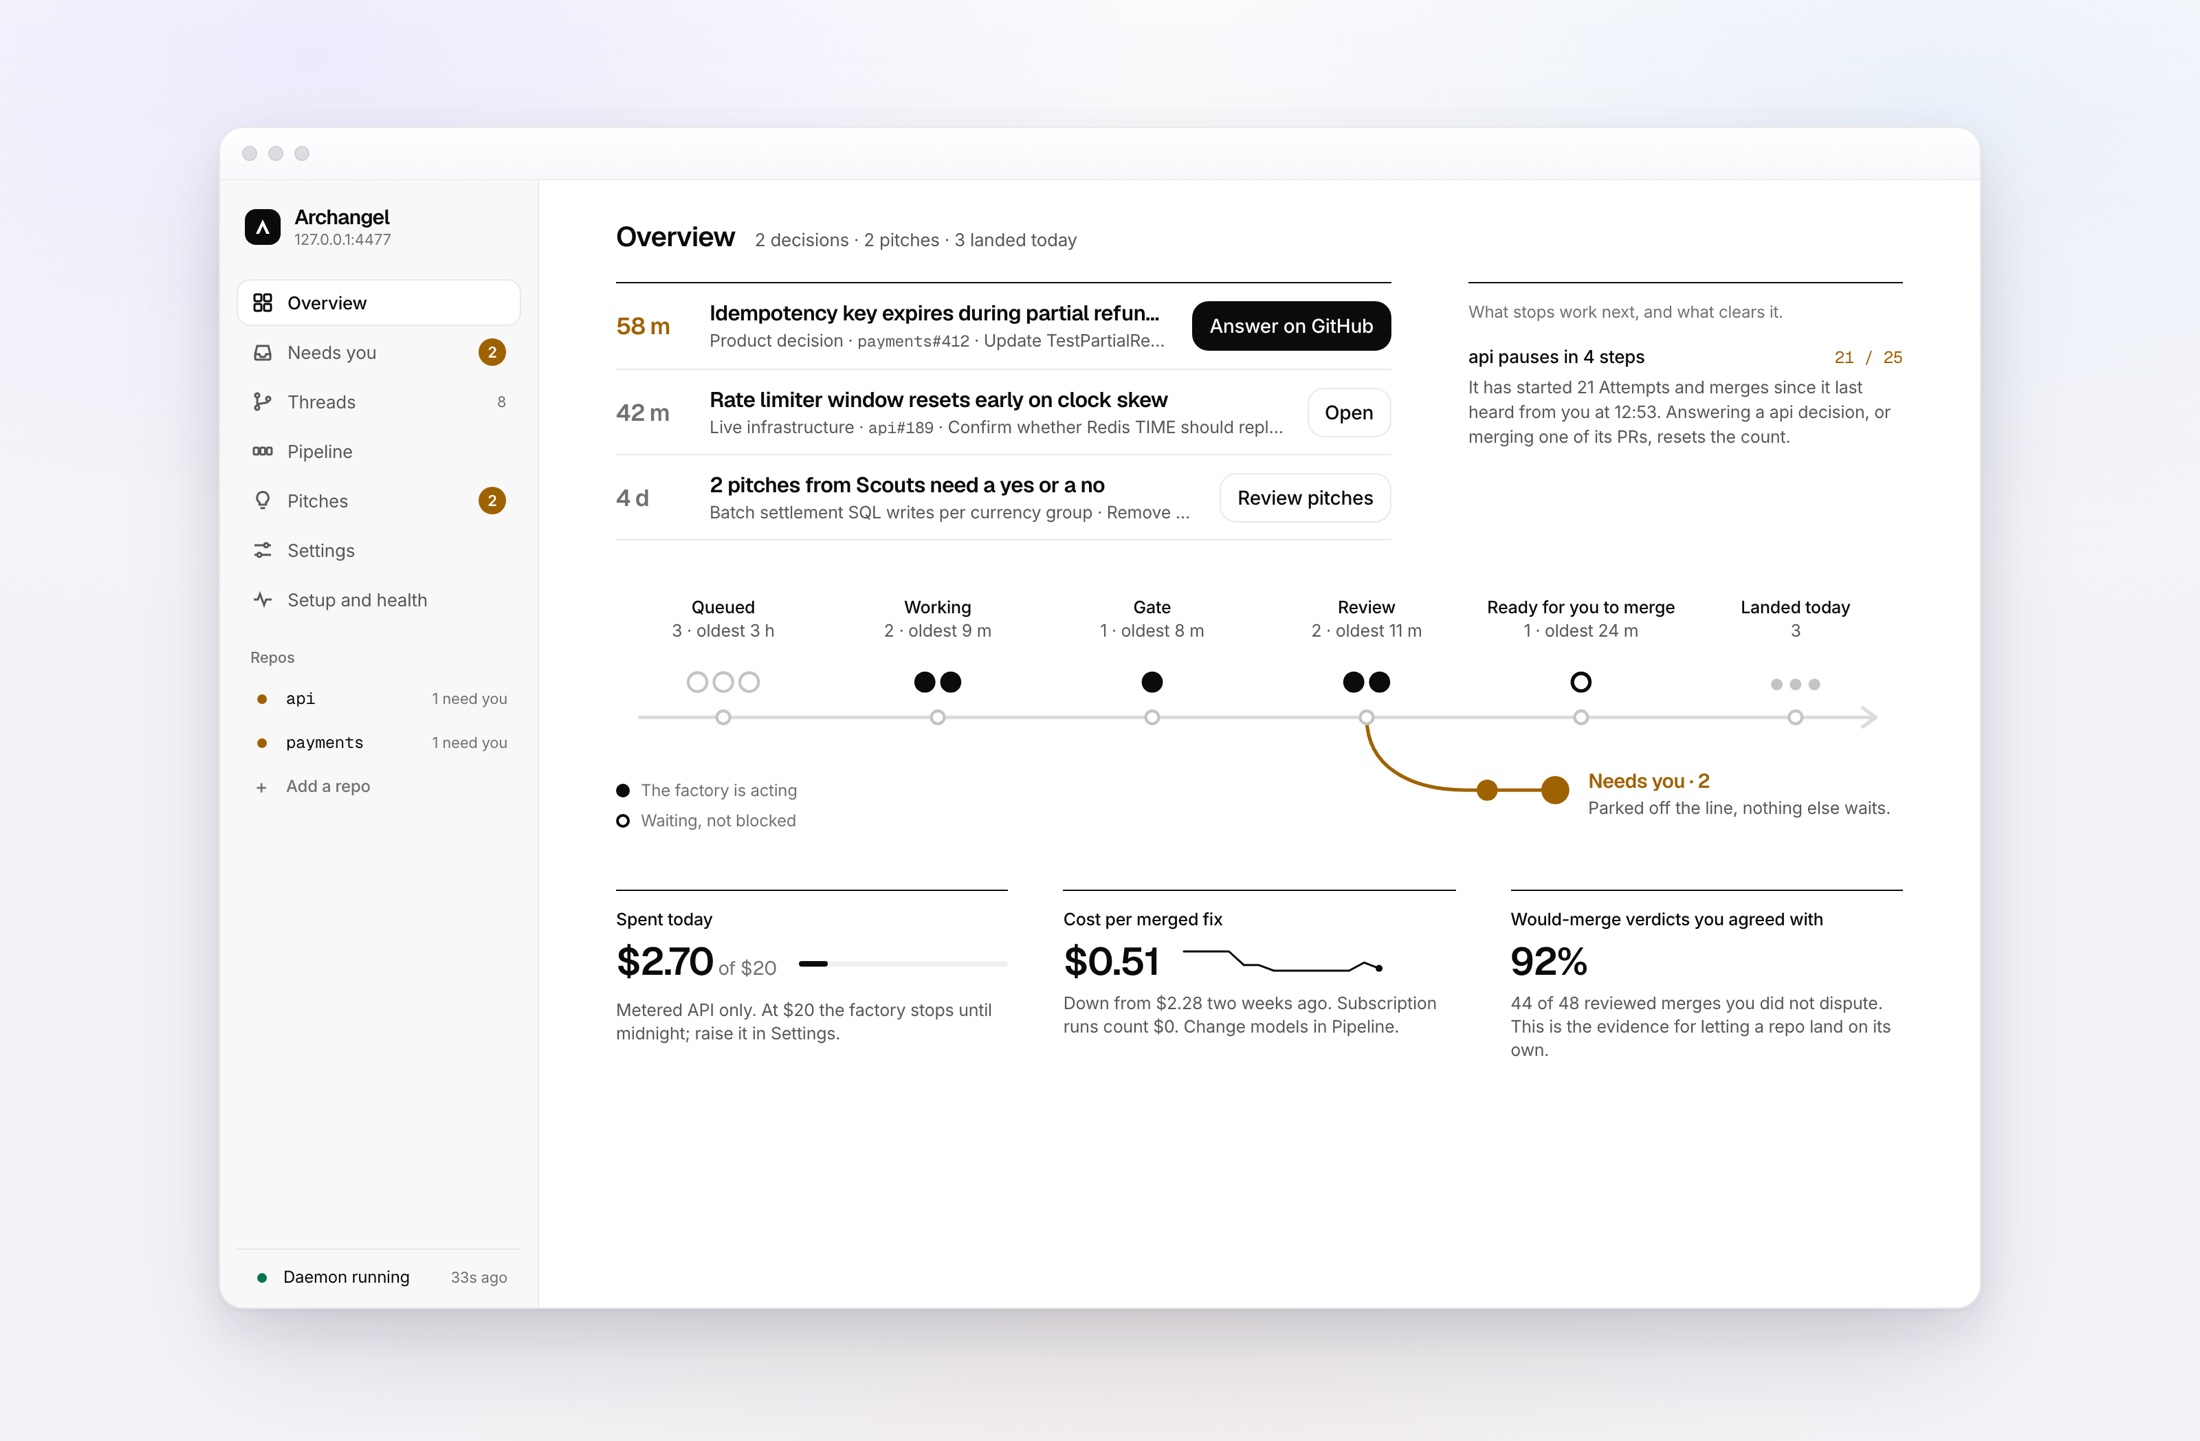
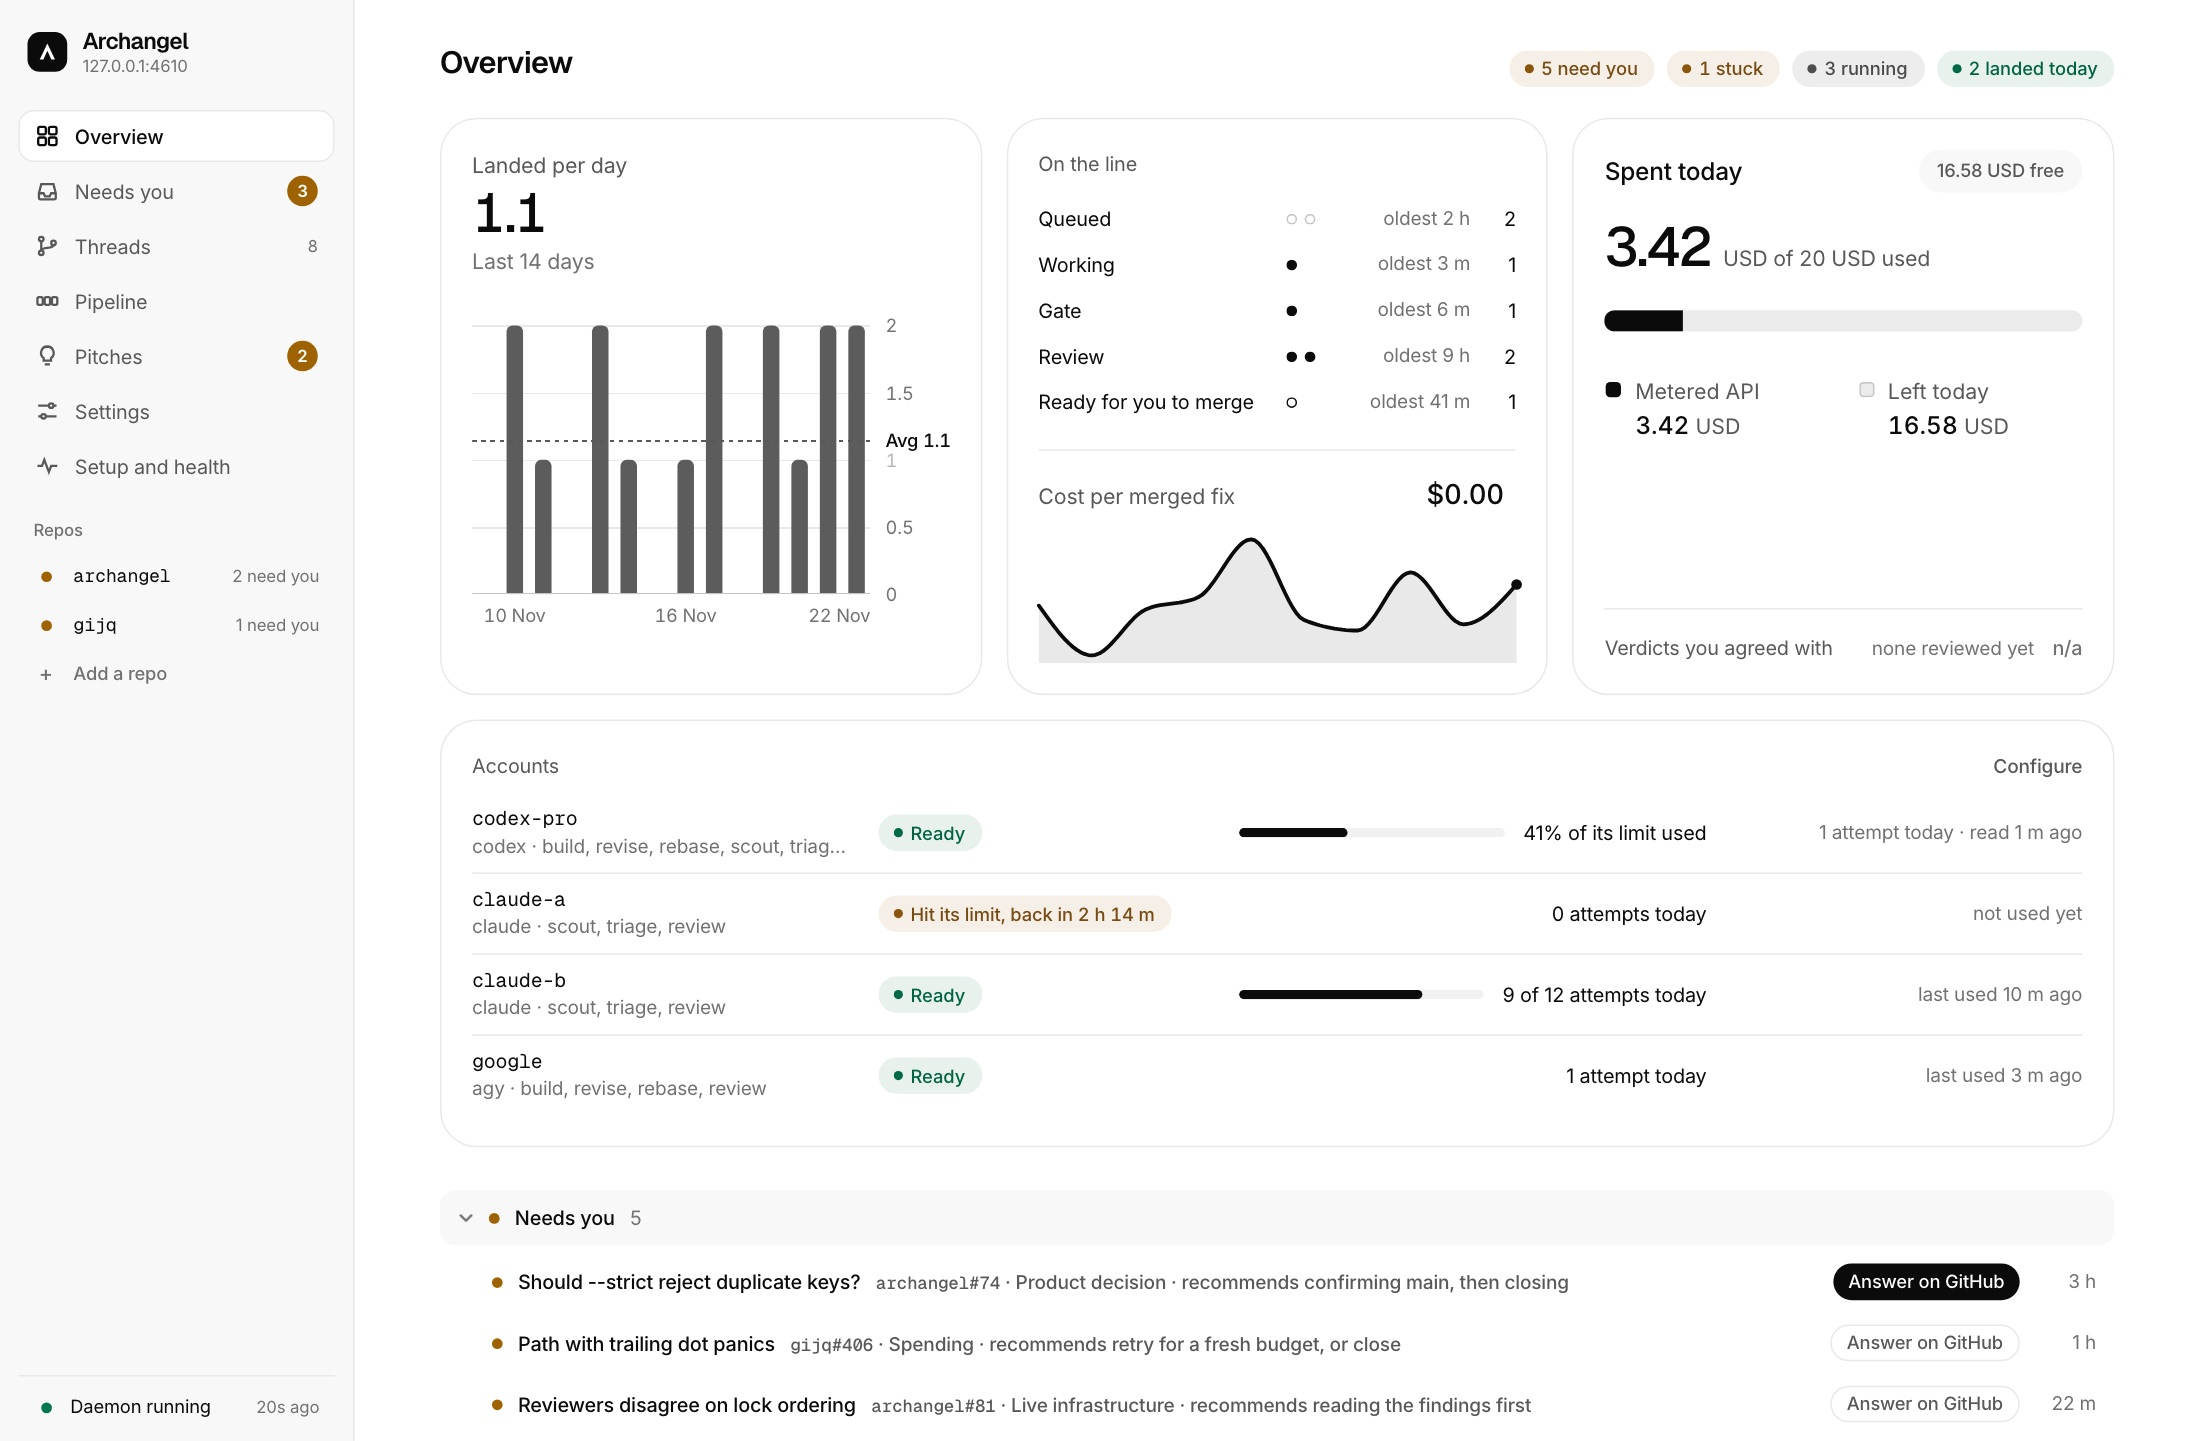
docs: refresh README screenshots and copy for the Arc dashboard

diff --git a/README.md b/README.md
@@ -25,7 +25,7 @@
   <picture>
     <source media="(prefers-color-scheme: dark)" srcset="assets/readme/hero-dark.jpg">
     <source media="(prefers-color-scheme: light)" srcset="assets/readme/hero-light.jpg">
-    <img alt="Archangel Overview dashboard showing pending decisions, pitches, live station line map, and outcome metrics" src="assets/readme/hero-light.jpg" width="100%">
+    <img alt="Archangel Overview dashboard showing fixes landed per day, Threads at each station, spend against the daily cap, usage for every account, and the Threads that need the owner" src="assets/readme/hero-light.jpg" width="100%">
   </picture>
 </p>
 
@@ -95,13 +95,13 @@ Bugs can land end-to-end autonomously once you disable shadow mode. Features, ch
 
 ### 1. Live Thread inspection and mechanical Gate proof
 
-Every issue becomes a Thread with a live phase rail showing time spent in each stage, a newest-first Ledger audit timeline, full attempt provenance (provider, model, duration, transcript path), and a mechanical Gate proof checklist.
+Every issue becomes a Thread with a phase stepper showing time spent in each stage, a newest-first Ledger audit timeline, full attempt provenance (provider, model, duration, transcript path), and a mechanical Gate proof checklist.
 
 <p align="center">
   <picture>
     <source media="(prefers-color-scheme: dark)" srcset="assets/readme/threads-dark.jpg">
     <source media="(prefers-color-scheme: light)" srcset="assets/readme/threads-light.jpg">
-    <img alt="Threads page showing grouped Threads on the left and phase rail with per-phase durations, Ledger timeline, and Gate proof on the right" src="assets/readme/threads-light.jpg" width="100%">
+    <img alt="Threads page showing grouped Threads on the left and the phase stepper with per-phase durations, Ledger timeline, and Gate proof on the right" src="assets/readme/threads-light.jpg" width="100%">
   </picture>
 </p>
 
@@ -117,7 +117,7 @@ When a Thread hits a conflict with an existing test, a reviewer veto, or a produ
   <picture>
     <source media="(prefers-color-scheme: dark)" srcset="assets/readme/needs-you-dark.jpg">
     <source media="(prefers-color-scheme: light)" srcset="assets/readme/needs-you-light.jpg">
-    <img alt="Needs You queue showing oldest-first escalations, per-Thread recommendation, latest Recap with Gate and Diff rows, blockers, and Answered today" src="assets/readme/needs-you-light.jpg" width="100%">
+    <img alt="Needs You queue showing oldest-first escalations, the factory's recommendation, latest Recap with Gate and Diff rows, blockers, and the command to copy" src="assets/readme/needs-you-light.jpg" width="100%">
   </picture>
 </p>
 
@@ -144,13 +144,13 @@ Every repository's rules live in `.agents/archangel.json` on `main`. The **Pipel
 
 ### 4. Subscription chains, multi-account failover, and host guardrails
 
-Configure separate provider chains for `implement`, `revise`, `rebase`, `scout`, `triage`, and `reviewerChain` in **Settings** (form or raw YAML). Add multiple logins per CLI under `accounts:` in `archangel.yaml` without ever handing tokens to Archangel.
+Configure separate provider chains for `implement`, `revise`, `rebase`, `scout`, `triage`, and `reviewerChain` in **Settings** (form or raw YAML). Add, edit and remove logins per CLI in **Settings** (or under `accounts:` in `archangel.yaml`) without ever handing tokens to Archangel. The **Overview** shows each account's state and usage.
 
 <p align="center">
   <picture>
     <source media="(prefers-color-scheme: dark)" srcset="assets/readme/settings-dark.jpg">
     <source media="(prefers-color-scheme: light)" srcset="assets/readme/settings-light.jpg">
-    <img alt="Settings page showing provider chains, live green vendor independence checks, and multi-account cooldown tracking" src="assets/readme/settings-light.jpg" width="100%">
+    <img alt="Settings page showing provider chains, live green vendor independence checks, and the accounts list with each account's cooldown, home folder and daily cap" src="assets/readme/settings-light.jpg" width="100%">
   </picture>
 </p>
 
@@ -166,7 +166,7 @@ Read-only Bug Scouts inspect `main` using bundled or repo-specific skills (`gene
   <picture>
     <source media="(prefers-color-scheme: dark)" srcset="assets/readme/pitches-dark.jpg">
     <source media="(prefers-color-scheme: light)" srcset="assets/readme/pitches-light.jpg">
-    <img alt="Pitches page showing open Scout pitches, evidence, options considered, slice selection, copyable promote command, and next pitch Scout schedule" src="assets/readme/pitches-light.jpg" width="100%">
+    <img alt="Pitches page showing open Scout pitches, the try-it command, evidence, options considered, slice selection, and the next pitch Scout schedule" src="assets/readme/pitches-light.jpg" width="100%">
   </picture>
 </p>
 
